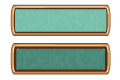
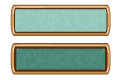
Update buttons and style in Character list

Changed region(s): [[0.125, 0.125, 0.9, 0.4]]

diff --git a/wwwroot/css/site.css b/wwwroot/css/site.css
@@ -303,11 +303,21 @@ body {
     min-height: 60px;
 }
 .character-info p {
-    margin-bottom: 0;
-    margin-left: 0.5rem;
-    margin-top: 0.5rem;
+    margin: 5px;
     white-space: nowrap
 }
+
+.character-list {
+    border-image-width: 6px 6px 0 6px !important;
+    background-color: rgba(170, 220, 207, 0.7);
+    padding: 20px !important;
+}
+
+.new-character-list {
+    background-color: rgba(207, 238, 229, 0.50);
+    padding: 20px !important;
+}
+
 .character-btns {
     max-height: 100px;
     min-width: 95px;
